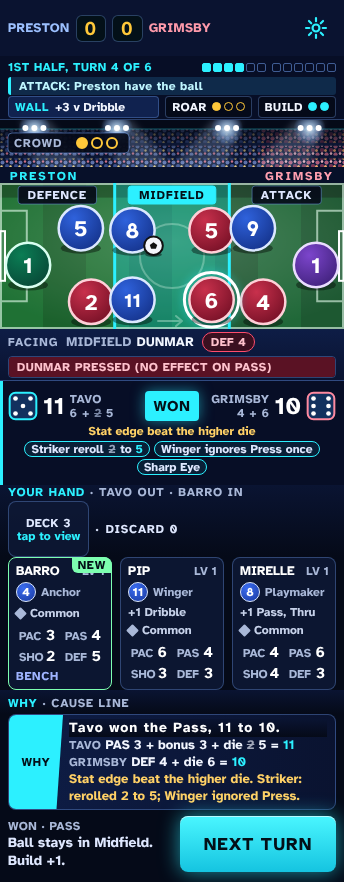
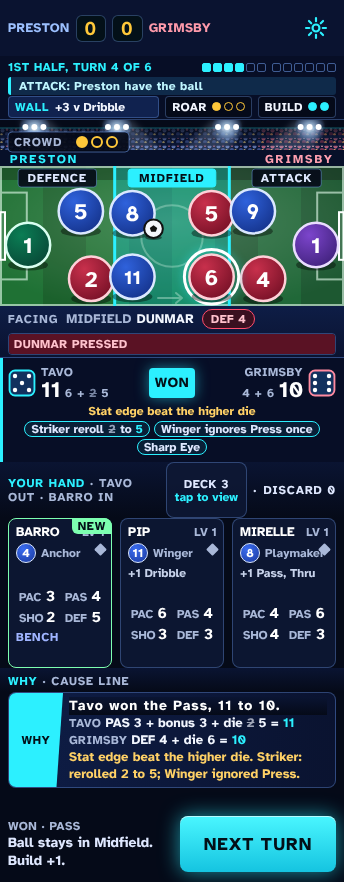
WIP sq-ui-1: QA blocker fixes in progress
Claude-Session: https://claude.ai/code/session_01Lcw2xtH3te5yS7NMaVz2mq

diff --git a/pages/squad-duel/css/match-result.css b/pages/squad-duel/css/match-result.css
@@ -1,18 +1,19 @@
 /* OWNER: match-result maker (sq-ui-1). Styles for ui/match-result.js only. */
 #match #band .rz{display:grid;grid-template-columns:minmax(0,1fr) auto minmax(0,1fr);align-items:center;gap:4px}
 #match #band .rz .side{gap:5px;min-width:0}
-#match #band .rz .side svg{width:30px;height:30px;flex:none}
+#match #band .rz .side svg{width:28px;height:28px;flex:none}
 #match #band .rz .side.opp .tx small{text-align:right}
-#match #band .rz .side .tx{display:grid;grid-template-columns:auto minmax(0,1fr);column-gap:5px;align-items:center;min-width:0;flex:1}
-#match #band .rz .side .tx small{display:block;font-size:12px;line-height:13px;white-space:nowrap;overflow:hidden;text-overflow:ellipsis}
-#match #band .rz .side .tx b{display:block;grid-row:1/3;grid-column:1;font-size:24px;line-height:28px}
-#match #band .rz .side .tx small{grid-column:2}
-#match #band .rz .side.opp .tx{grid-template-columns:minmax(0,1fr) auto}
-#match #band .rz .side.opp .tx b{grid-column:2}
-#match #band .rz .side.opp .tx small{grid-column:1}
+#match #band .rz .side .tx{display:grid;grid-template-columns:auto minmax(0,1fr);column-gap:4px;align-items:baseline;min-width:0;flex:1}
+#match #band .rz .side .tx small{display:block;font-size:12px;line-height:14px;white-space:nowrap;overflow:hidden;text-overflow:ellipsis}
+#match #band .rz .side .tx small:first-child{grid-column:1/3;grid-row:1}
+#match #band .rz .side .tx b{display:block;grid-row:2;grid-column:1;font-size:22px;line-height:22px}
+#match #band .rz .side .tx small:last-child{grid-row:2;grid-column:2}
 #match #band .rz .side .tx s{text-decoration:line-through;opacity:.7}
-#match #band .rz .side.opp .tx small{text-align:right}
-#match #band .rz .stamp{min-height:30px;padding:0 8px;font-size:15px;letter-spacing:.05em}
+#match #band .rz .side.opp .tx{grid-template-columns:minmax(0,1fr) auto}
+#match #band .rz .side.opp .tx small:first-child{grid-column:1/3;text-align:right}
+#match #band .rz .side.opp .tx small:last-child{grid-column:1;text-align:right}
+#match #band .rz .side.opp .tx b{grid-column:2}
+#match #band .rz .stamp{min-height:30px;padding:0 6px;font-size:14px;letter-spacing:.05em}
 #match #band .rz-note{font-size:12px;line-height:16px;color:#ffd166;text-align:center;white-space:nowrap;overflow:hidden;text-overflow:ellipsis}
 #match #band .rz-fx{display:flex;flex-wrap:wrap;gap:2px 4px;justify-content:center;max-height:34px;overflow:hidden}
 #match #band .rz-fx[hidden],#match #band .rz-note[hidden]{display:none}

diff --git a/pages/squad-duel/ui/scene.js b/pages/squad-duel/ui/scene.js
@@ -24,13 +24,13 @@
 
   function geometry(W, H) {
     // stands take ~30% of the box, never thin (>=46), never so tall that 44px tokens do not fit
-    let sy = Math.max(46, Math.min(Math.round(H * 0.3), 120));
+    let sy = H < 170 ? Math.max(34, Math.round(H * 0.24)) : Math.max(46, Math.min(Math.round(H * 0.3), 120));
     const Rt = Math.max(15, Math.min(26, W * 0.0645));            // 22.2 at 344 -> 44px tokens
     const need = 4 * Rt + 30 + 26;                                  // two token rows + gaps + zone label strip
-    if (H - sy < need) sy = Math.max(46, H - need);
+    if (H - sy < need) sy = Math.max(H < 170 ? 34 : 46, H - need);
     const PH = H - sy;
     const labelH = 18, y0 = sy + labelH + 4, y1 = H - 4;
-    const R = Math.max(14, Math.min(Rt, (y1 - y0 - 6) / 4));
+    const R = Math.max(12, Math.min(Rt, (y1 - y0 - 4) / 4));
     const yT = y0 + R + 1, yB = y1 - R - 1, yM = (yT + yB) / 2;
     const cw = W / 3;
     const col = c => cw * c;
@@ -124,7 +124,7 @@
       [-9, 0, 9].forEach(dx => { o += `<circle cx="${x + dx}" cy="${roof - 1}" r="3" fill="#fff"/>`; });
     });
     // sponsor strip + club names
-    o += `<rect y="${bY}" width="${W}" height="16" fill="#071029"/><g font-size="12" font-weight="800" letter-spacing="2"><text x="10" y="${bY + 12.5}" fill="#2cf0ff">PRESTON</text><text x="${W - 10}" y="${bY + 12.5}" text-anchor="end" fill="#ff9fb0">GRIMSBY</text></g>`;
+    o += `<rect y="${bY}" width="${W}" height="16" fill="#071029"/><g font-size="12" font-weight="800" letter-spacing="2"><text x="10" y="${bY + 12.5}" fill="#2cf0ff">PRESTON</text><text x="${W - 10}" y="${bY + 12.5}" text-anchor="end" fill="#ff9fb0">${esc(((m && m.club && (m.club.label || m.club.name)) || 'OPPONENT').toUpperCase())}</text></g>`;
     // pitch
     o += `<rect y="${sy}" width="${W}" height="${PH}" fill="#0a5a2c"/><g>`;
     for (let i = 0; i < 8; i += 2) o += `<rect x="${W * i / 8}" y="${sy}" width="${W / 8}" height="${PH}" fill="#0e6b34"/>`;

diff --git a/pages/squad-duel/ui/match-acts.js b/pages/squad-duel/ui/match-acts.js
@@ -39,7 +39,7 @@
       const nm = keeperAct && m.club.keeper ? m.club.keeper.name : d.name;
       const st = ev.clubStance;
       let bar = '';
-      if (!keeperAct && st) bar = '<div class="stance one" role="img" aria-label="' + esc(d.name) + ' ' + esc(st === 'press' ? 'pressed' : 'dropped') + '"><div class="seg ' + st + '">' + esc(d.name) + (st === 'press' ? ' pressed' : ' dropped') + (ev.action === 'pass' ? ' (no effect on Pass)' : '') + '</div></div>';
+      if (!keeperAct && st) bar = '<div class="stance one" role="img" aria-label="' + esc(d.name) + ' ' + esc(st === 'press' ? 'pressed' : 'dropped') + '"><div class="seg ' + st + '">' + esc(d.name) + (st === 'press' ? ' pressed' : ' dropped') + '</div></div>';
       return '<div class="who"><span class="k">' + (keeperAct ? 'Keeper' : 'Facing') + '</span><span>' + (keeperAct ? '' : '<span class="nn">' + esc(ZN[ev.zone] != null ? ZN[ev.zone] : '') + '</span>') + esc(nm) + '</span><span class="df">' + (keeperAct ? 'SAVE ' : 'DEF ') + esc(ev.oppScore) + '</span></div>' + bar;
     }
     const keeperShot = !ev.pid;
@@ -60,7 +60,7 @@
     if (w) {
       ['pass', 'dribble', 'through', 'shoot'].forEach((a) => {
         const v = Math.round((w[a] || 0) * 100);
-        if (v > 0) { cols.push('minmax(max-content,' + v + 'fr)'); segs += '<div class="seg w-' + a + '">' + esc(ACTS[a].label.replace(' ball', '')) + ' ' + v + '%</div>'; }
+        if (v > 0) { cols.push('minmax(0,' + v + 'fr)'); segs += '<div class="seg w-' + a + '">' + esc(ACTS[a].label.replace('Through ball', 'Thru').replace(' ball', '')) + ' ' + v + '%</div>'; }
       });
     }
     const bar = segs ? '<div class="stance wb" style="grid-template-columns:' + cols.join(' ') + '" role="img" aria-label="' + esc(text) + '">' + segs + '</div>' : '<div class="who">' + esc(text) + '</div>';

diff --git a/pages/squad-duel/css/match.css b/pages/squad-duel/css/match.css
@@ -16,7 +16,7 @@
 #match .gb.bd .pp i{border-color:var(--m-neon)}
 #match .gb.bd .pp i.f{background:var(--m-neon)}
 /* scene box: scene.css draws inside */
-#match #scene{flex:1 1 auto;min-height:0;position:relative;overflow:hidden;background:#050a18}
+#match #scene{flex:1 1 auto;min-height:110px;position:relative;overflow:hidden;background:#050a18}
 /* tell */
 #match #tell{flex:none;height:52px;box-sizing:border-box;overflow:hidden;padding:4px 8px;background:linear-gradient(180deg,#0e1d46,#0a1330);display:flex;flex-wrap:wrap;gap:4px 12px;align-items:center;border-bottom:1px solid var(--m-line);align-content:center}
 #match #tell .who{flex:0 1 auto;display:flex;flex-wrap:wrap;align-items:center;gap:2px 8px;font-size:13px;line-height:18px;text-transform:uppercase;letter-spacing:.03em}
@@ -186,19 +186,19 @@
 /* frame sizes (row 14): >=400 wide uses a 2-row info block; short screens trim tell and band */
 @media (min-width:400px){
  #match #info{height:44px}
- #match #tell{height:38px}
+ #match #tell{height:34px}
 }
 @media (min-width:400px) and (min-height:760px){
  #match #tell{height:52px}
  #match #band{height:104px}
 }
 @media (min-width:400px) and (max-height:759px){
- #match #band{height:76px}
+ #match #band{height:64px}
 }
 /* wide landscape (816x568): pitch left, cards right */
 @media (min-width:700px) and (max-height:640px){
  #match{display:grid;grid-template-columns:minmax(0,1fr) minmax(340px,46%);grid-template-rows:auto auto auto auto minmax(0,1fr) auto auto}
- #match #info{grid-column:1;grid-row:1}
+ #match #info{grid-column:1;grid-row:1;height:64px}
  #match #scene{grid-column:1;grid-row:2/6;min-height:0}
  #match #tell{grid-column:1;grid-row:6}
  #match #band{grid-column:1;grid-row:7;height:84px}

diff --git a/pages/squad-duel/css/match-frame.css b/pages/squad-duel/css/match-frame.css
@@ -43,3 +43,13 @@
 /* half / full time panels (row 20) */
 #match #halftime .ovp,#match #fulltime .ovp{gap:10px}
 @media (min-width:600px){#match #info .gb .hm{display:inline}#match #info .gb .mx{display:inline}}
+/* landscape 2-col: left column is ~400px, keep the 3-row info layout */
+@media (min-width:700px) and (max-height:640px){
+ #match #info{grid-template-columns:minmax(0,1fr) auto auto;grid-template-rows:20px 18px 23px;column-gap:6px;padding:1px 8px}
+ #match #info.hm{grid-template-areas:"turn pips pips" "rib rib mode" "tag roar build"}
+ #match #info:not(.hm){grid-template-areas:"turn pips pips" "rib rib rib" "tag roar build"}
+ #match #info .gb .hm,#match #info .gb .mx{display:none}
+ #match #info .gb{padding:0 6px}
+ #match #ribbon{height:18px}
+ #match #roar{justify-self:stretch}
+}

diff --git a/pages/squad-duel/css/match-acts.css b/pages/squad-duel/css/match-acts.css
@@ -59,3 +59,5 @@
 #match #acts{min-height:118px}
 #match #acts.four,#match #acts.two{grid-template-rows:auto 1fr}
 @media (min-width:400px){#match #acts{min-height:99px}}
+#match #tell .stance .seg{min-width:0;padding:0 5px;overflow:hidden;text-overflow:ellipsis;white-space:nowrap}
+#match #tell .stance.one .seg{display:block;line-height:20px}
